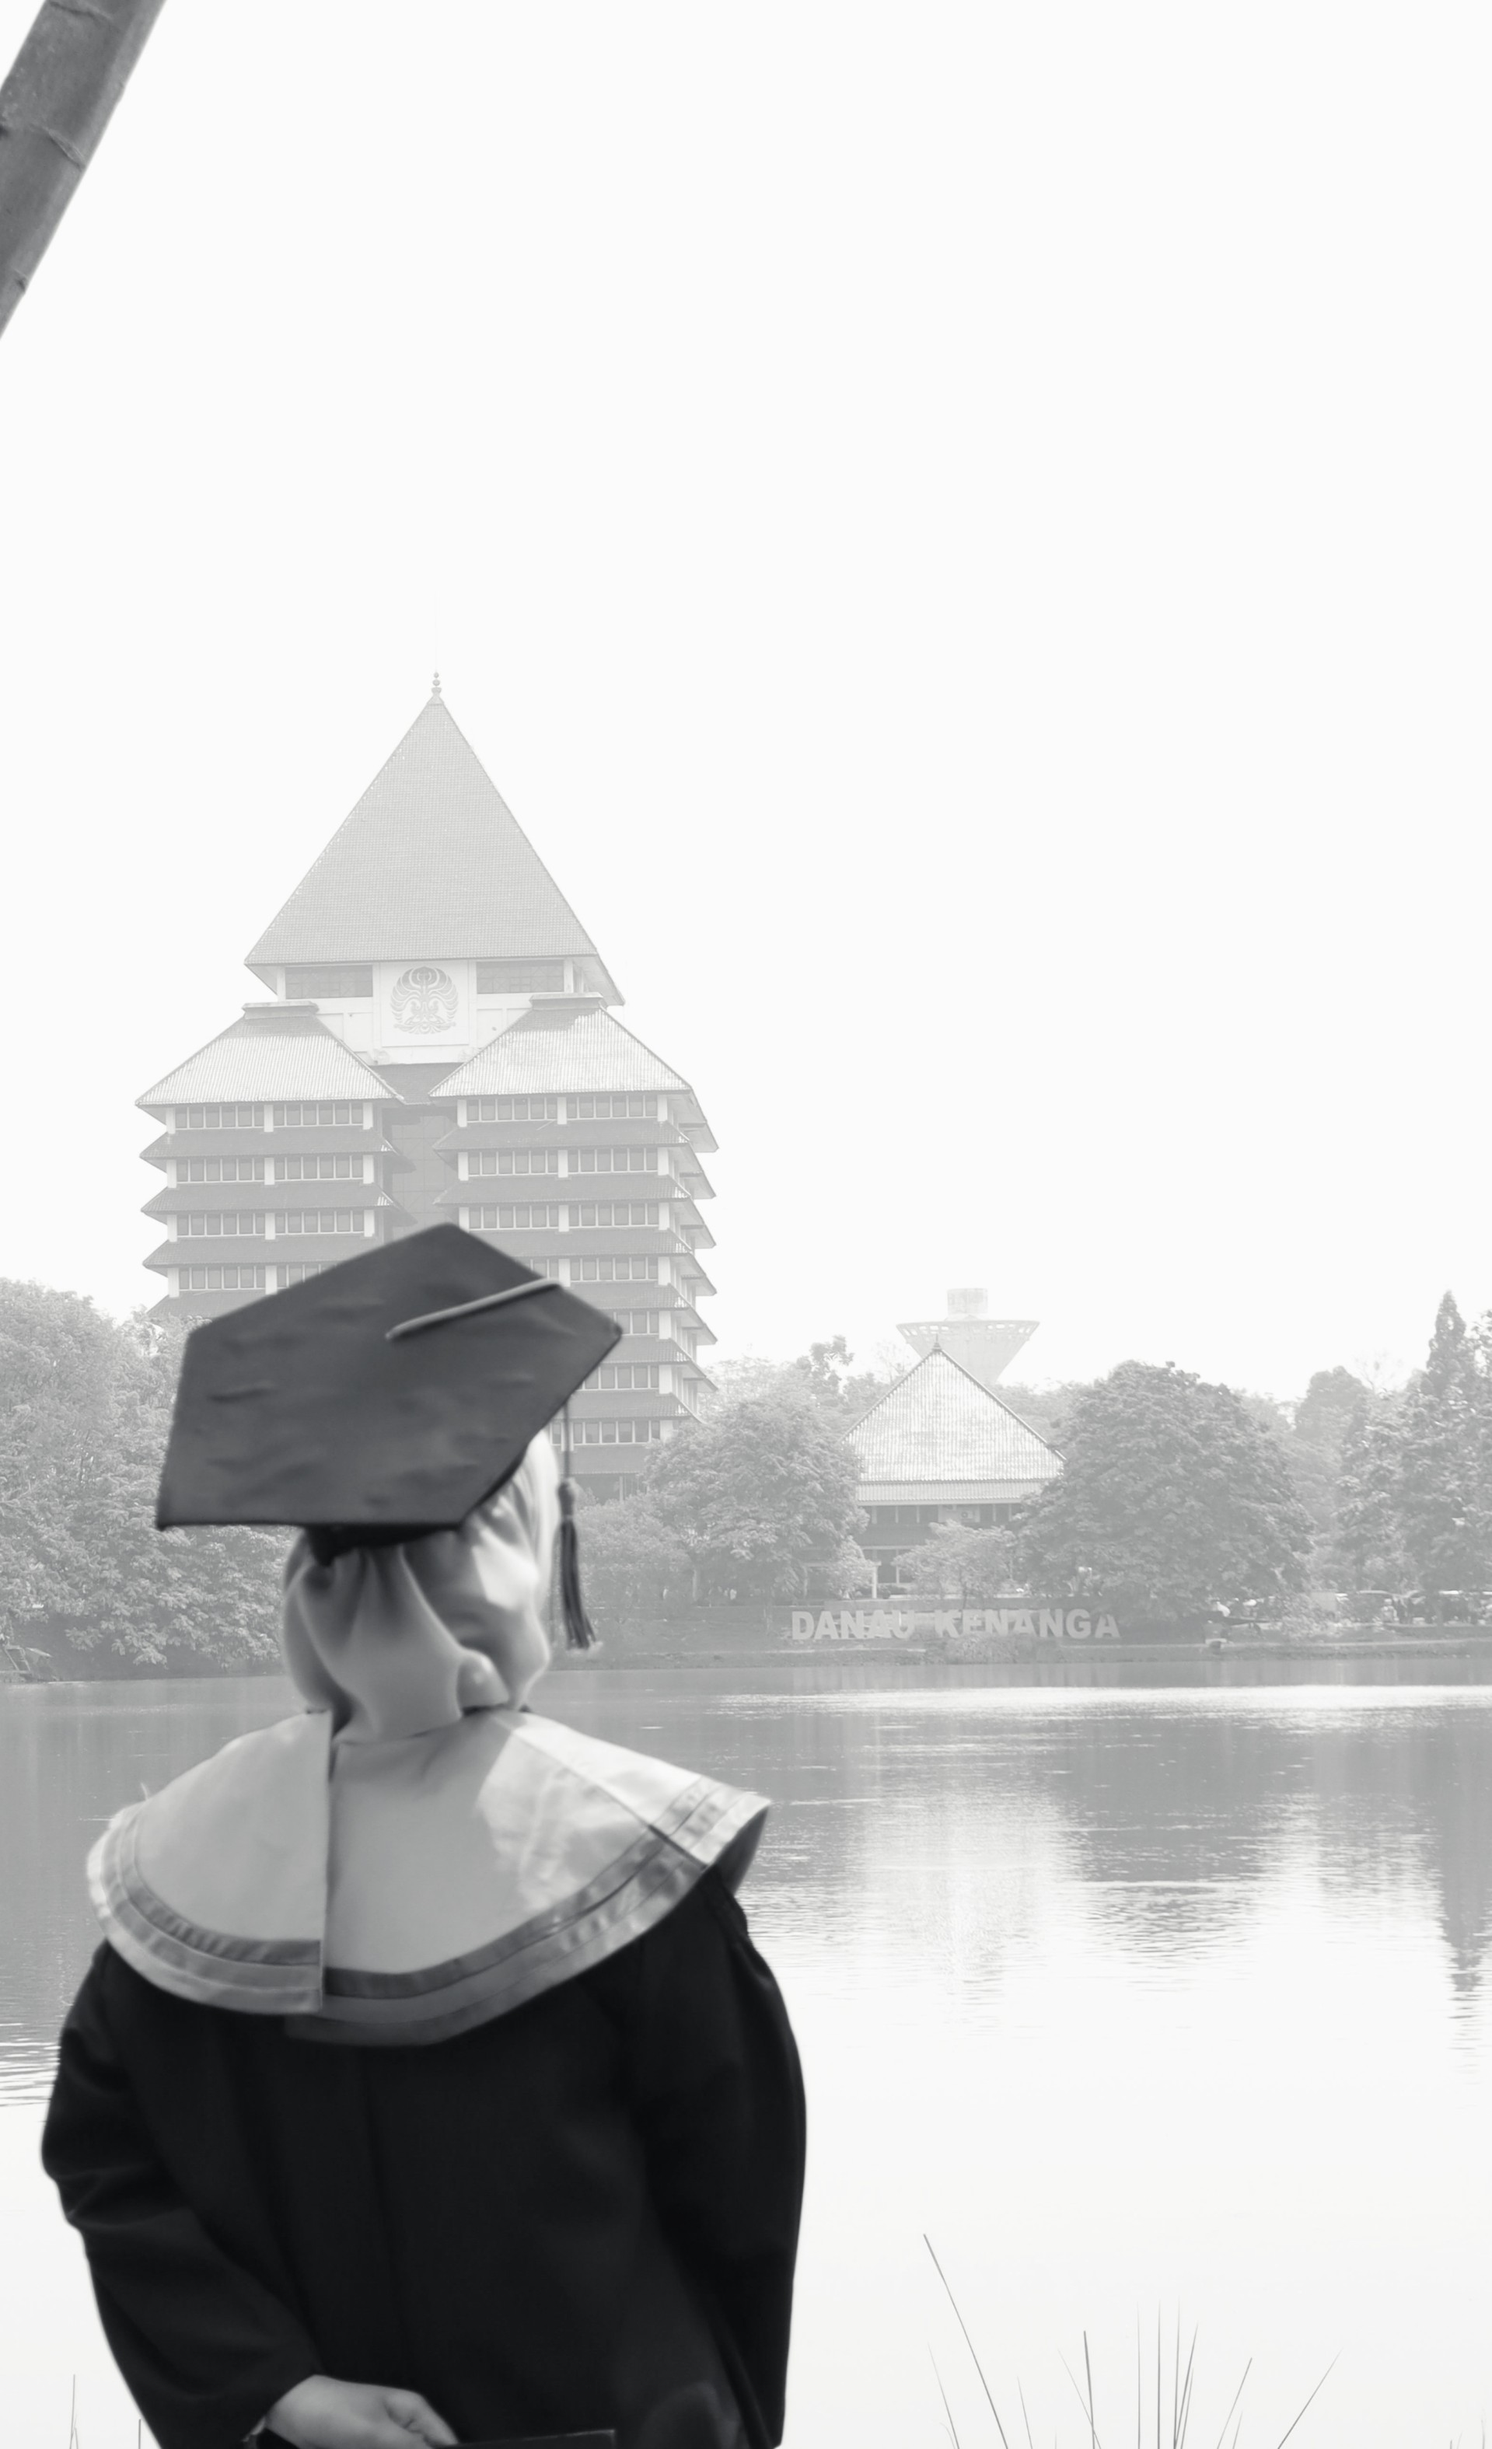
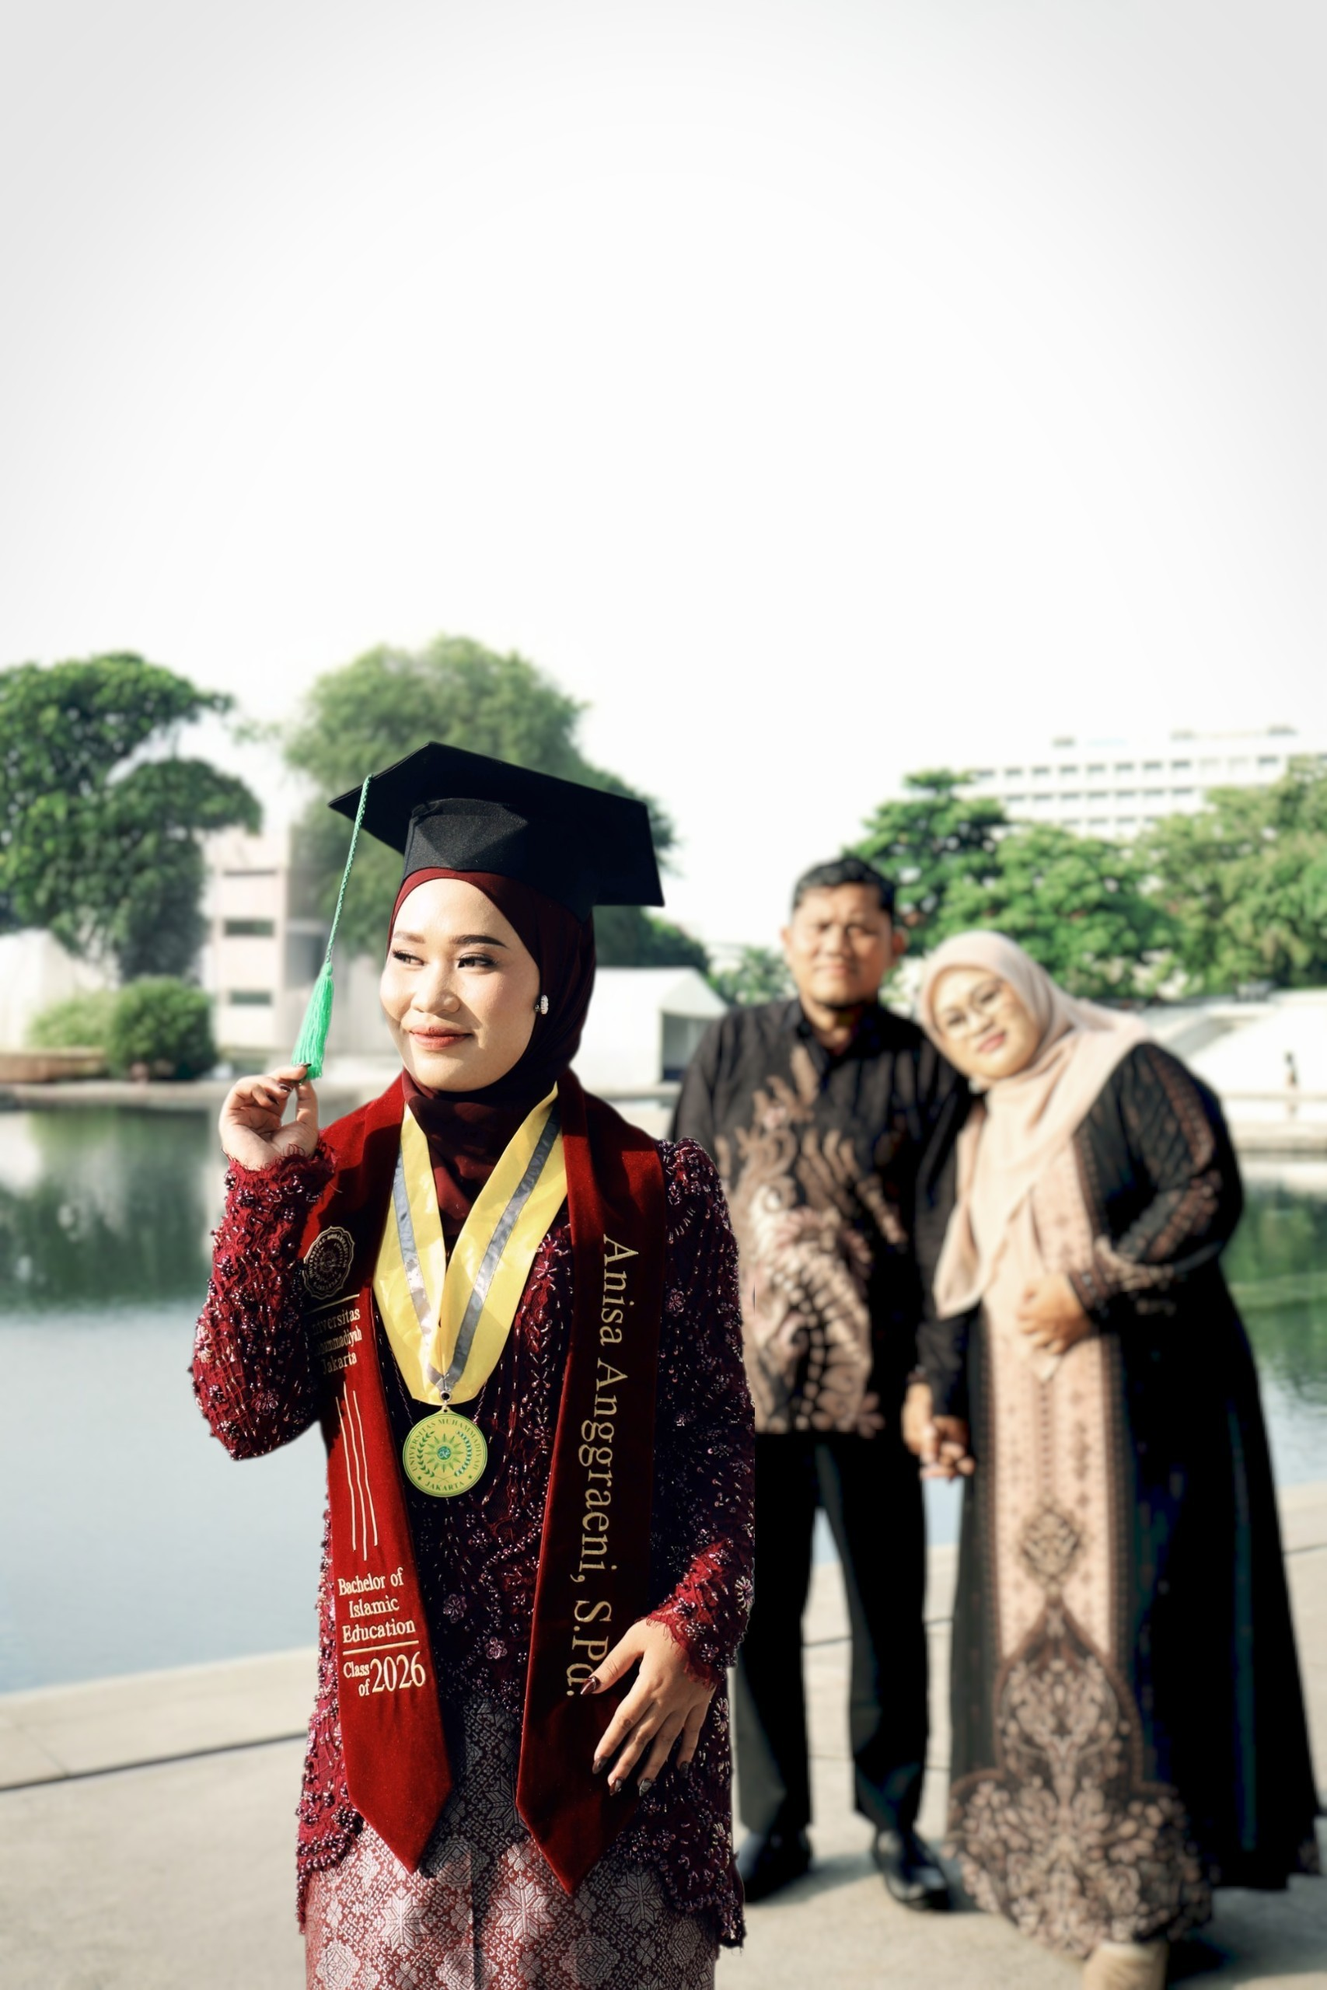
pesan perubahan

diff --git a/index.html b/index.html
@@ -610,7 +610,7 @@ text-align:center;
   display:grid;
 
   grid-template-columns:
-    repeat(3,1fr);
+    repeat(2,1fr);
 
   gap:6px;
 }
